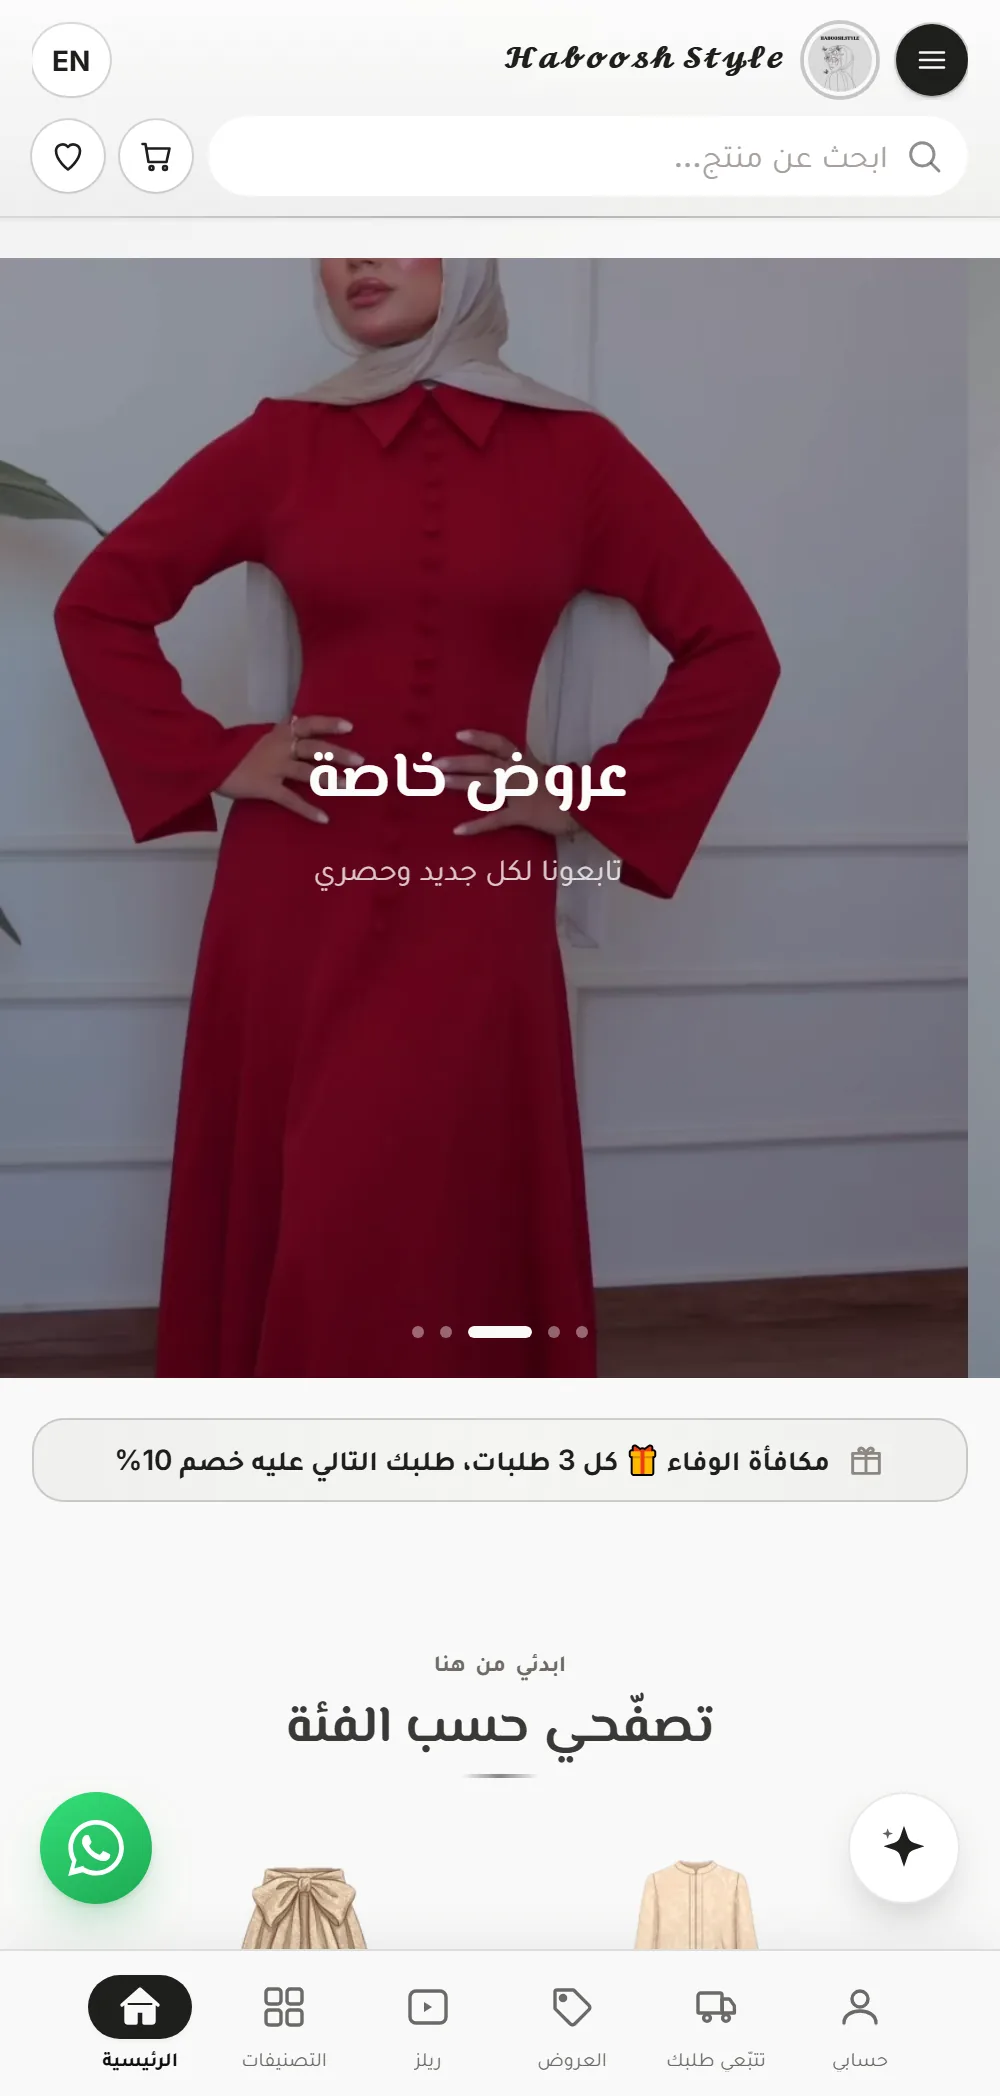
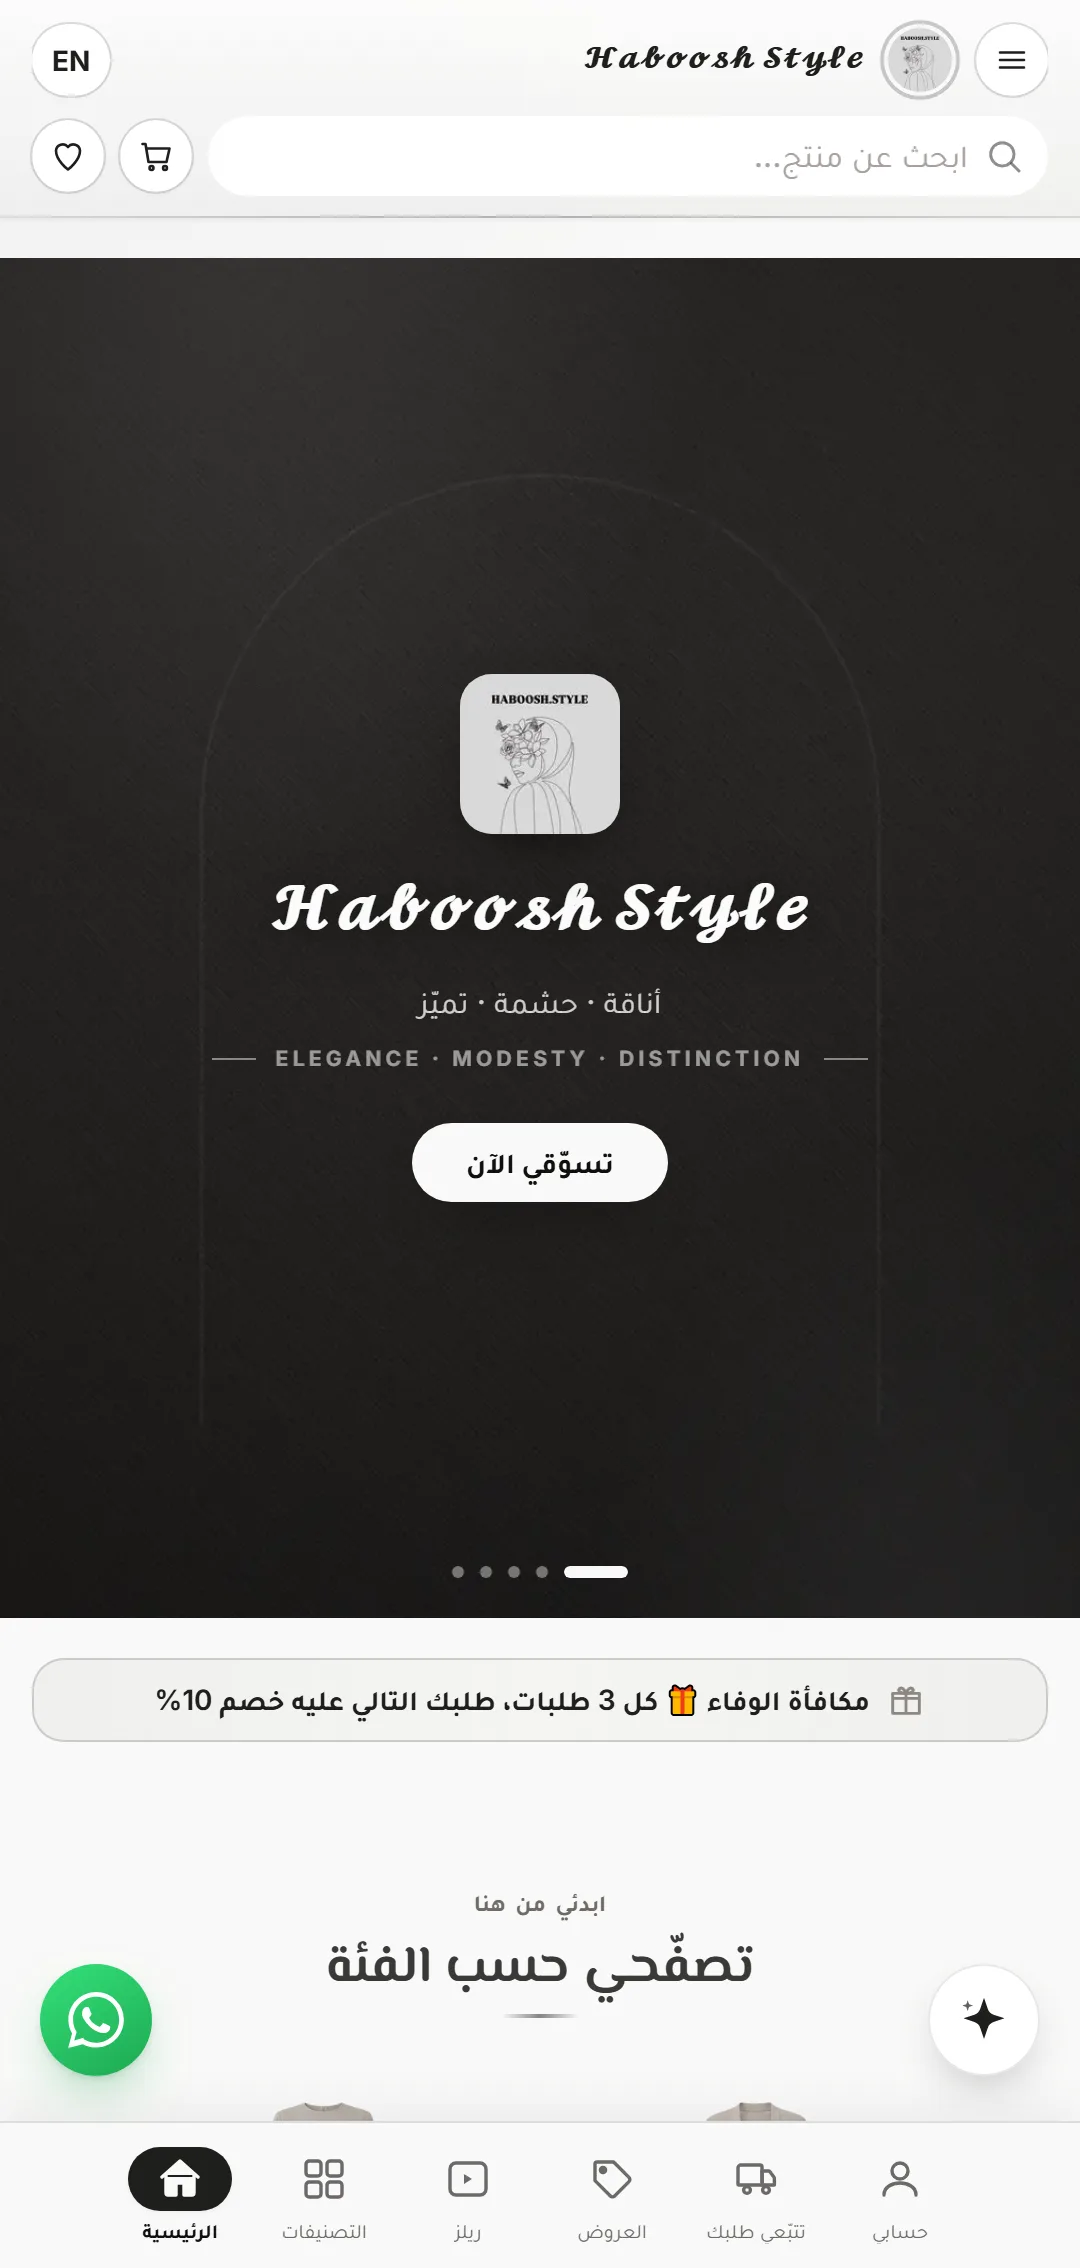
لقطةُ الهاتفِ بصفحةِ الواجهةِ تقفُ عند افتتاحِ المتجر
كانت تقعُ على بانرٍ عابرٍ من بانراتِ هبّوش — «عروض خاصة» فوق لقطةِ فيديو —
لأنّ السلايدرَ يتقدّمُ وحدَه كلَّ سبعِ ثوانٍ والسكربتُ يمنحُه اثنتي عشرة. فكانت
اللقطةُ تختلفُ بكلّ تشغيلة، ولا تُري ما يجبُ أن يُرى: كيف يفتتحُ المتجرُ نفسَه.
صارت شريحةَ الافتتاح — الشعارُ والاسمُ والجملةُ و«تسوّقي الآن» على النسيجِ
الحبريّ — وهي الشريحةُ الأولى بكلّ متجرٍ على المنصّة.

وما أمسكَها ليس رقماً مضبوطاً بل إصلاحُ وصولٍ حقيقيّ: HeroSlider لم يكن يحترمُ
prefers-reduced-motion، وشريحةٌ تمشي وحدَها كلَّ سبعِ ثوانٍ تسحبُ المحتوى من
تحتِ عينِ من يقرأُ ببطء وتؤذي من تُدوّخُه الحركة (WCAG 2.2.2). فمن طلبَ السكونَ
وقفَ عنده الدورانُ وبقيت النقاطُ والسحب. وكروم المُلتقِطُ يطلبُ السكونَ نفسَه،
فتخرجُ اللقطةُ واحدةً كلَّ مرّة — وحارسٌ ثالثٌ يرفضُ الكتابةَ إن لم تكن الشريحةُ
الظاهرةُ هي الافتتاح.

وحارسا السكربتِ القديمان كانا يفحصانِ النصَّ الخامَ لا الأصناف: خادمُ التطوير
يحقنُ الـCSS داخلَ المستند، فيرى «bz-state» مُحدِّداً بورقةِ الأنماطِ ويظنُّها
بطاقةَ خطأ فيرفضُ صفحةً سليمة. صارا يمشيانِ على سماتِ class ويطابقانِ الاسمَ
كاملاً.

والمقاسُ أخيراً: صندوقُ الصورةِ داخلَ الإطارِ نسبتُه 2.1007 مقيسةً من المتصفّح
(610.39 ÷ 290.56)، واللقطةُ كانت تُؤخذُ بـ2.1667 — وobject-fit: cover يقصُّ
الفرقَ من الأسفلِ لأنّ object-position علويّ، وهو نصفُ الشريطِ السفليّ بأسمائه.
صار الارتفاعُ 1134 فتطابقَ الثلاثةُ: اللقطةُ وسمةُ <img> والصندوق.

diff --git a/client/src/pages/StorePage.jsx b/client/src/pages/StorePage.jsx
@@ -998,8 +998,22 @@ function HeroSlider({ store }) {
   // تجعلُها تمسحُ الشرائحَ كلَّها بالاتّجاهِ المعاكسِ فينكسرُ إحساسُ الدوران —
   // يمشي الشريطُ يساراً أربعَ مرّاتٍ ثمّ يرتدُّ يميناً مسحةً طويلة.
   const [snap, setSnap] = useState(false);
+  // سكونٌ لمن يطلبُ سكوناً: شريحةٌ تمشي وحدَها كلّ سبعِ ثوانٍ تسحبُ
+  // المحتوى من تحتِ عينِ من يقرأُ ببطء، وتُدوّخُ من تؤذيه الحركة. ومن طلبَ
+  // من نظامِه تقليلَ الحركة فقد قالها صراحةً — فتبقى النقاطُ والسحبُ ويقفُ
+  // الدورانُ وحدَه. وهذا ما يجعلُ لقطةَ صفحةِ الواجهة قابلةً للتكرار أيضاً:
+  // كرومُ المُلتقِطُ يطلبُ السكونَ فتقفُ الشريحةُ عندَ الافتتاحِ دائماً.
+  const [still, setStill] = useState(false);
   useEffect(() => {
-    if (len <= 1 || paused) return undefined;
+    if (typeof window.matchMedia !== 'function') return undefined;
+    const mq = window.matchMedia('(prefers-reduced-motion: reduce)');
+    const read = () => setStill(mq.matches);
+    read();
+    mq.addEventListener('change', read);
+    return () => mq.removeEventListener('change', read);
+  }, []);
+  useEffect(() => {
+    if (len <= 1 || paused || still) return undefined;
     const id = setInterval(() => {
       setI((prev) => {
         const next = (prev + 1) % len;
@@ -1008,7 +1022,7 @@ function HeroSlider({ store }) {
       });
     }, 7000);
     return () => clearInterval(id);
-  }, [len, paused, i]);
+  }, [len, paused, still, i]);
   // تعودُ الحركةُ بعدَ رسمِ الإطارِ الجديدِ مباشرةً
   useEffect(() => {
     if (!snap) return undefined;

diff --git a/client/src/pages/Landing.jsx b/client/src/pages/Landing.jsx
@@ -464,7 +464,7 @@ export default function Landing() {
                     loading="lazy"
                     decoding="async"
                     width={540}
-                    height={1132}
+                    height={1134}
                   />
                 </div>
               </div>
